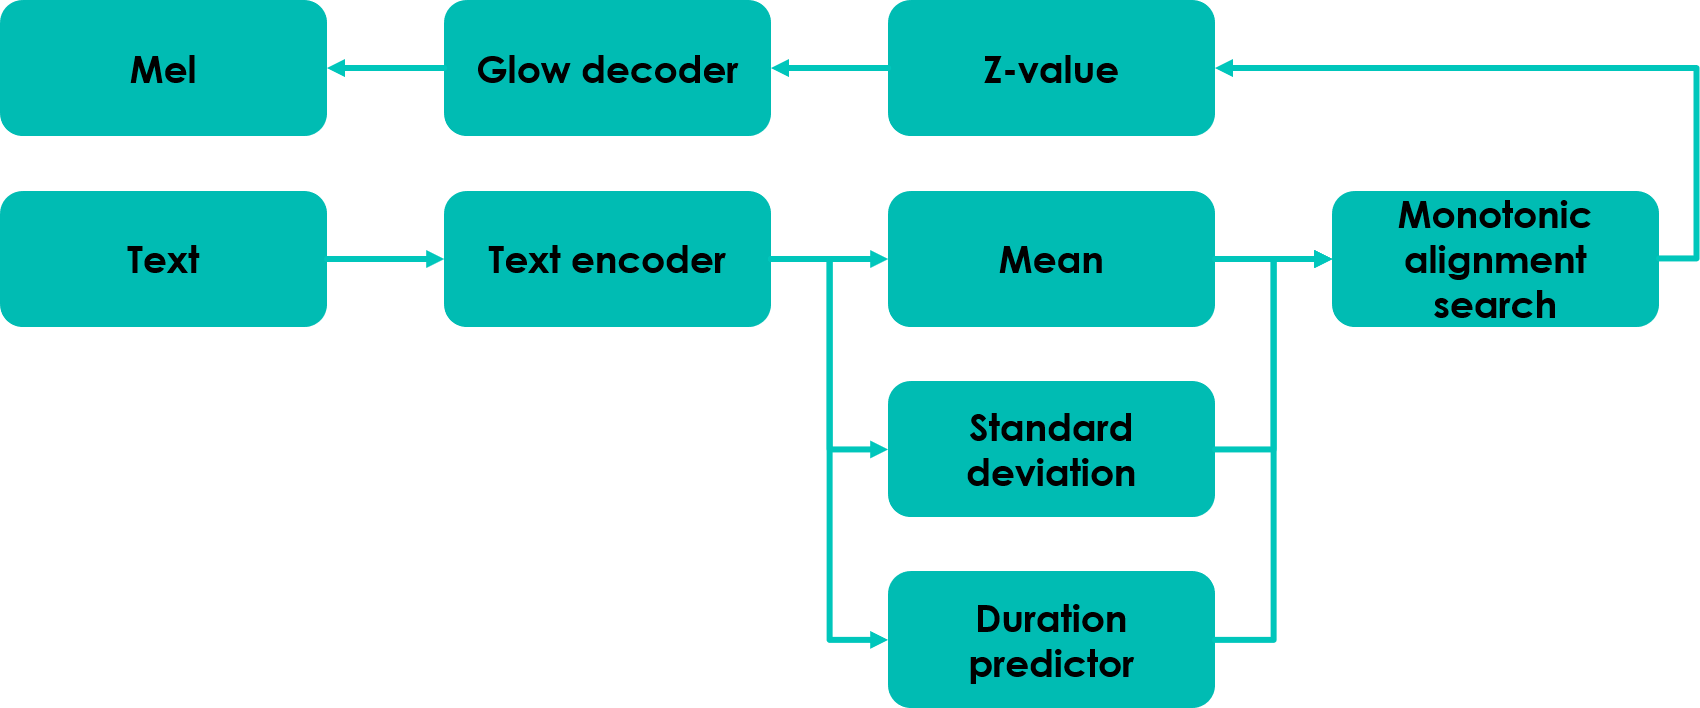
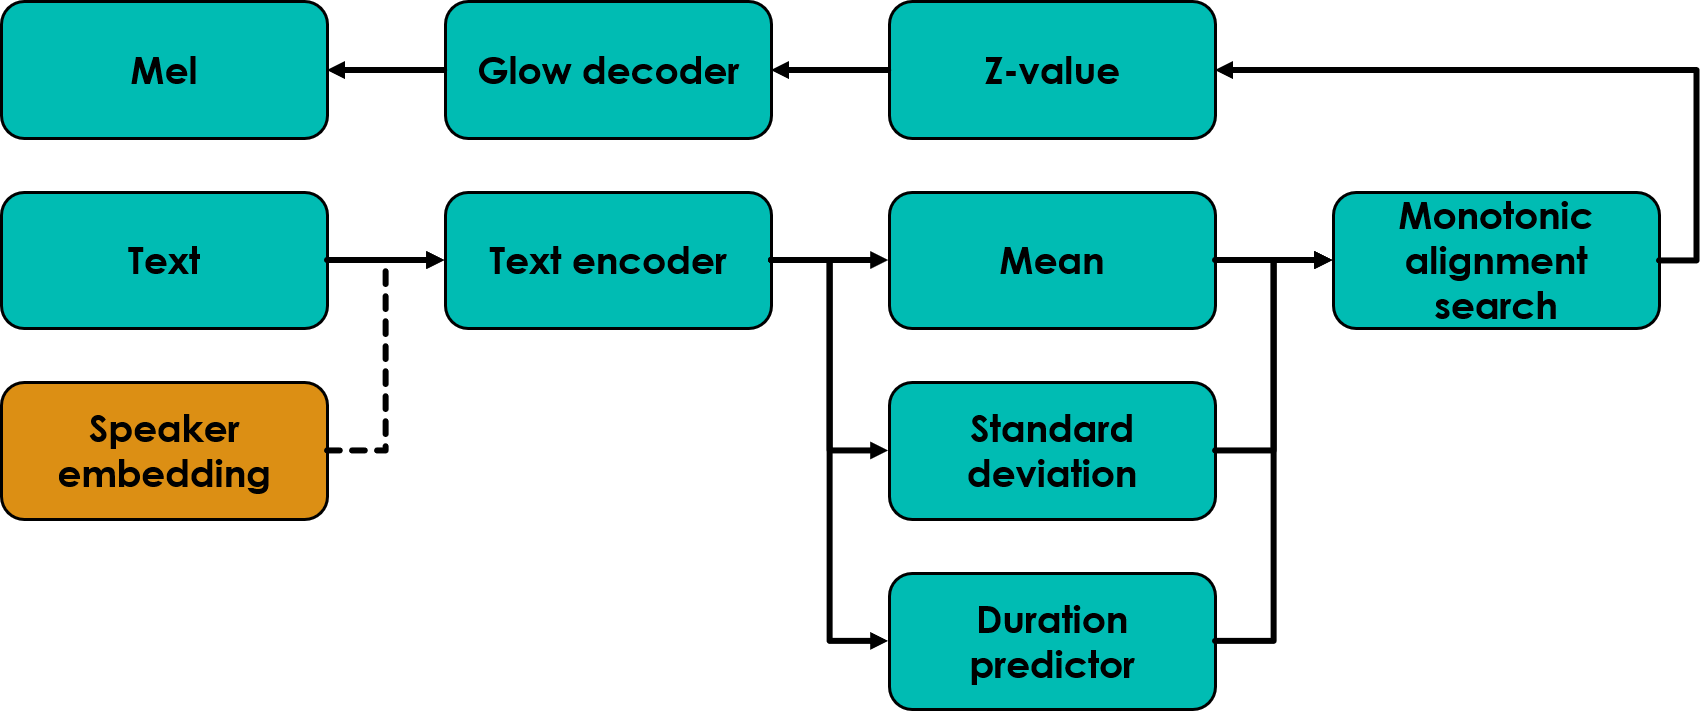
fix typos, Readme update

diff --git a/Train.py b/Train.py
@@ -189,7 +189,7 @@ class Trainer:
             token_lengths= token_lengths,
             mels= mels,
             mel_lengths= mel_lengths,
-            speaker_embedding= embeddings,
+            speaker_embeddings= embeddings,
             is_training= True
             )
 
@@ -276,7 +276,7 @@ class Trainer:
             token_lengths= token_lengths,
             mels= mels,
             mel_lengths= mel_lengths,
-            speaker_embedding= embeddings,
+            speaker_embeddings= embeddings,
             is_training= True
             )
 
@@ -337,7 +337,7 @@ class Trainer:
             tokens= tokens,
             token_lengths= token_lengths,
             length_scale= length_scales,
-            speaker_embedding= embeddings,
+            speaker_embeddings= embeddings,
             is_training= False
             )
 

diff --git a/Datasets.py b/Datasets.py
@@ -229,13 +229,15 @@ class Inference_Collater:
         token_Lengths = torch.LongTensor(token_Lengths)   # [Batch]
         length_Scales = torch.FloatTensor(length_Scales)
 
-        mels_for_Embedding = None        
+        
         if hp_Dict['Speaker_Embedding']['Type'] == 'GE2E':
             mels_for_Embedding = Speaker_Embedding_Stack(mels_for_Embedding)
             mels_for_Embedding = torch.FloatTensor(mels_for_Embedding).transpose(2, 1)   # [Batch, Mel_dim, Time]
         elif hp_Dict['Speaker_Embedding']['Type'] == 'LUT':
             speakers = torch.LongTensor(speakers)
-            
+        else:
+            mels_for_Embedding = None
+            speakers= None
 
         return tokens, token_Lengths, length_Scales, mels_for_Embedding, speakers, labels, texts
 

diff --git a/README.md b/README.md
@@ -2,9 +2,14 @@
 
 * This code is a replication of [official Glow TTS code](https://github.com/jaywalnut310/glow-tts). If you want to use Glow TTS model, I recommend that you refer to the official code.
 * The following is the paper I referred:
+    * Glow TTS
+        * [Kim, J., Kim, S., Kong, J., & Yoon, S. (2020). Glow-TTS: A Generative Flow for Text-to-Speech via Monotonic Alignment Search. arXiv preprint arXiv:2005.11129.](https://arxiv.org/abs/2005.11129)
+        * [Shaw, P., Uszkoreit, J., & Vaswani, A. (2018). Self-attention with relative position representations. arXiv preprint arXiv:1803.02155.](https://arxiv.org/abs/1803.02155)
 
-[Kim, J., Kim, S., Kong, J., & Yoon, S. (2020). Glow-TTS: A Generative Flow for Text-to-Speech via Monotonic Alignment Search. arXiv preprint arXiv:2005.11129.](https://arxiv.org/abs/2005.11129)
-[Shaw, P., Uszkoreit, J., & Vaswani, A. (2018). Self-attention with relative position representations. arXiv preprint arXiv:1803.02155.](https://arxiv.org/abs/1803.02155)
+    * GE2E speaker embedding
+        * [Wan, L., Wang, Q., Papir, A., & Moreno, I. L. (2017). Generalized end-to-end loss for speaker verification. arXiv preprint arXiv:1710.10467.](https://arxiv.org/pdf/1710.10467)
+        * [Jia, Y., Zhang, Y., Weiss, R. J., Wang, Q., Shen, J., Ren, F., ... & Wu, Y. (2018). Transfer Learning from Speaker Verification to Multispeaker Text-To-Speech Synthesis. arXiv preprint arXiv:1806.04558.](http://papers.nips.cc/paper/7700-transfer-learning-from-speaker-verification-to-multispeaker-text-to-speech-synthesis.pdf)
+        * [Qian, K., Zhang, Y., Chang, S., Yang, X., & Hasegawa-Johnson, M. (2019). Zero-shot voice style transfer with only autoencoder loss. arXiv preprint arXiv:1905.05879.](https://arxiv.org/pdf/1905.05879)
 
 # Requirements
 
@@ -18,6 +23,8 @@
 
 # Structure
 
+* `Speaker embedding` is optional.
+
 ## Training
 <img src='./Figures/Training.png' width=100% height=100% />
 
@@ -26,17 +33,16 @@
 
 # Used dataset
 
-* <S>Currently uploaded code is compatible with the following datasets.</S>
-* Multi speakers are not supported yet.
-* The O mark to the left of the dataset name is the dataset actually used in the uploaded result.
+* Currently uploaded code is compatible with the following datasets.
+* The O marks to the left of the dataset name are the dataset actually used in the uploaded result.
 
-|        | | Dataset   | Dataset address                                 |
-|--------|-|-----------|-------------------------------------------------|
-| O      | | LJSpeech  | https://keithito.com/LJ-Speech-Dataset/         |
-| X      | | BC2013    | http://www.cstr.ed.ac.uk/projects/blizzard/     |
-| X      | | CMU Arctic| http://www.festvox.org/cmu_arctic/index.html    |
-| X      | | VCTK      | https://datashare.is.ed.ac.uk/handle/10283/2651 |
-| X      | | LibriTTS  | https://openslr.org/60/                         |
+| Single | | Multi  | | Dataset   | Dataset address                                 |
+|--------|-|--------|-|-----------|-------------------------------------------------|
+| O      | | O      | | LJSpeech  | https://keithito.com/LJ-Speech-Dataset/         |
+| X      | | X      | | BC2013    | http://www.cstr.ed.ac.uk/projects/blizzard/     |
+| X      | | X      | | CMU Arctic| http://www.festvox.org/cmu_arctic/index.html    |
+| X      | | O      | | VCTK      | https://datashare.is.ed.ac.uk/handle/10283/2651 |
+| X      | | O      | | LibriTTS  | https://openslr.org/60/                         |
 
 # Hyper parameters
 Before proceeding, please set the pattern, inference, and checkpoint paths in 'Hyper_Parameter.yaml' according to your environment.
@@ -50,6 +56,8 @@ Before proceeding, please set the pattern, inference, and checkpoint paths in 'H
     * If `true`, the cython implementation of official code will be used.
     * If `false`, the python implementation will be used.
     * I recommend to use cython implementation because of speed.
+        * But, to use cython implementation, you must complie this before running.
+        * Please refer following: https://github.com/jaywalnut310/glow-tts#2-pre-requisites
 
 * Encoder
     * Setting the encoder parameters
@@ -64,12 +72,24 @@ Before proceeding, please set the pattern, inference, and checkpoint paths in 'H
     * If checkpoint path is `null`, model does not exports wav files.
     * If checkpoint path is not `null`, all parameters must be matched to pre-trained Parallel WaveGAN model.
 
+* Speaker_Embedding
+    * Setting the speaker embedding generating method
+    * In `Type`, you can select `null`, `'LUT'`, `'GE2E'`
+        * `null`: No speaker embedding. Single speaker version
+        * `LUT`: Model will generate a lookup table about the speakers.
+        * `GE2E`: Model will use d-vectors which is generated by a pretrained GE2E model.
+            * Pretrained GE2E model is from [Speaker_Embedding_Torch](https://github.com/CODEJIN/Speaker_Embedding_Torch)
+
 * Token path
     * Setting the token-to-index dict.
     * Pattern generator makes this file.
 
 * Train
     * Setting the parameters of training.
+
+* Inference_Batch_Size
+    * Setting the batch size when inference.
+    * If `null`, it will be same to `Train/Batch_Size`
 
 * Inference_Path
     * Setting the inference path
@@ -139,9 +159,3 @@ python Train.py -s <int>
 # Trained checkpoint
 
 * Now training....
-
-# Future works
-
-1. Applying multi-speaker
-    * One-hot based
-    * GE2E embedding based
